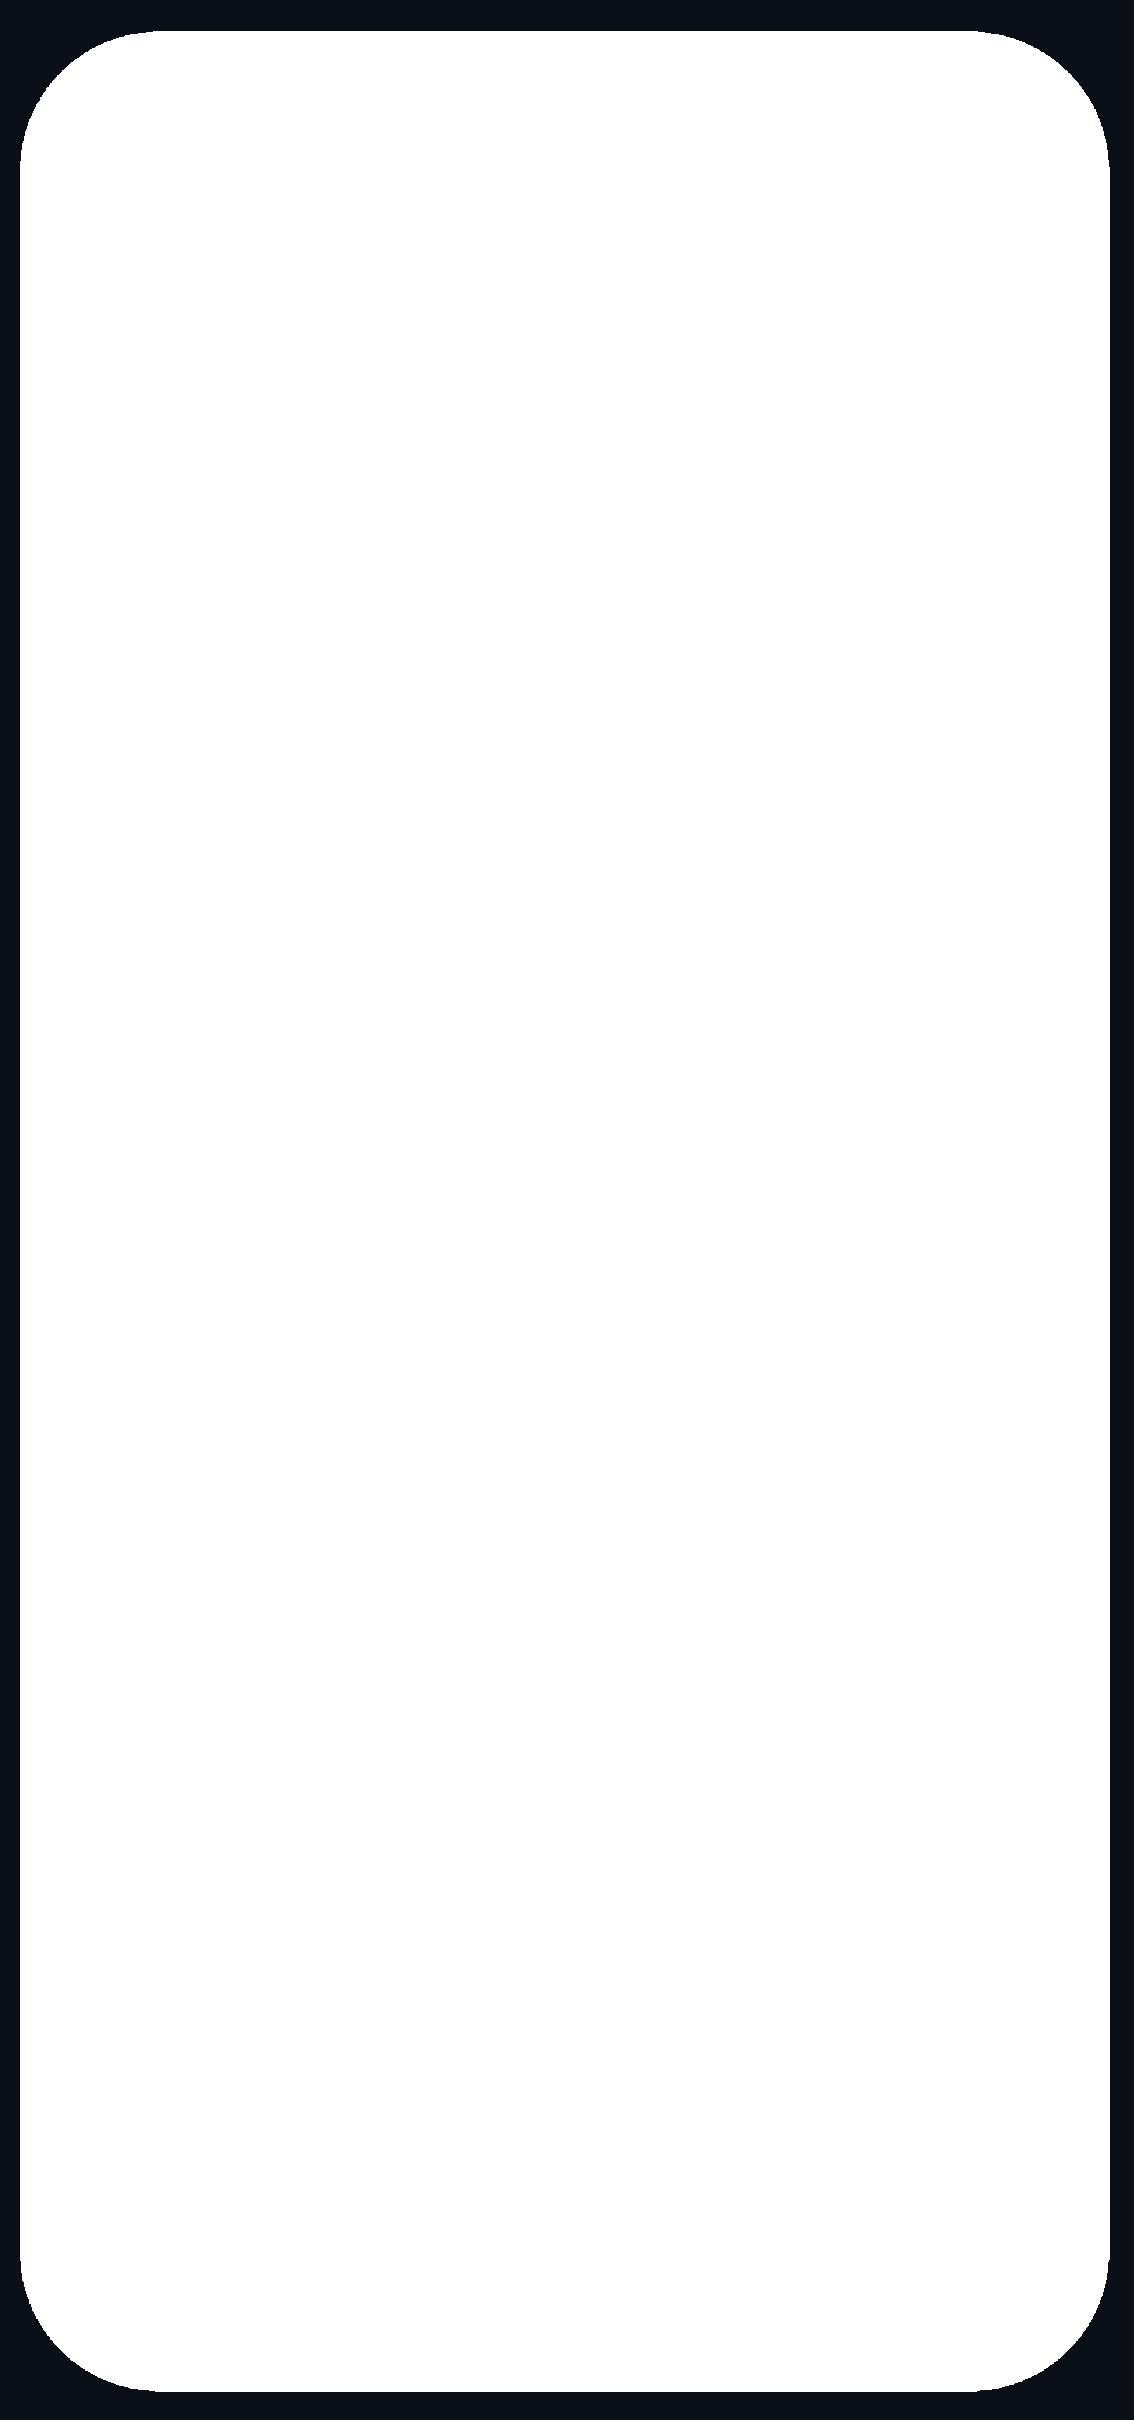
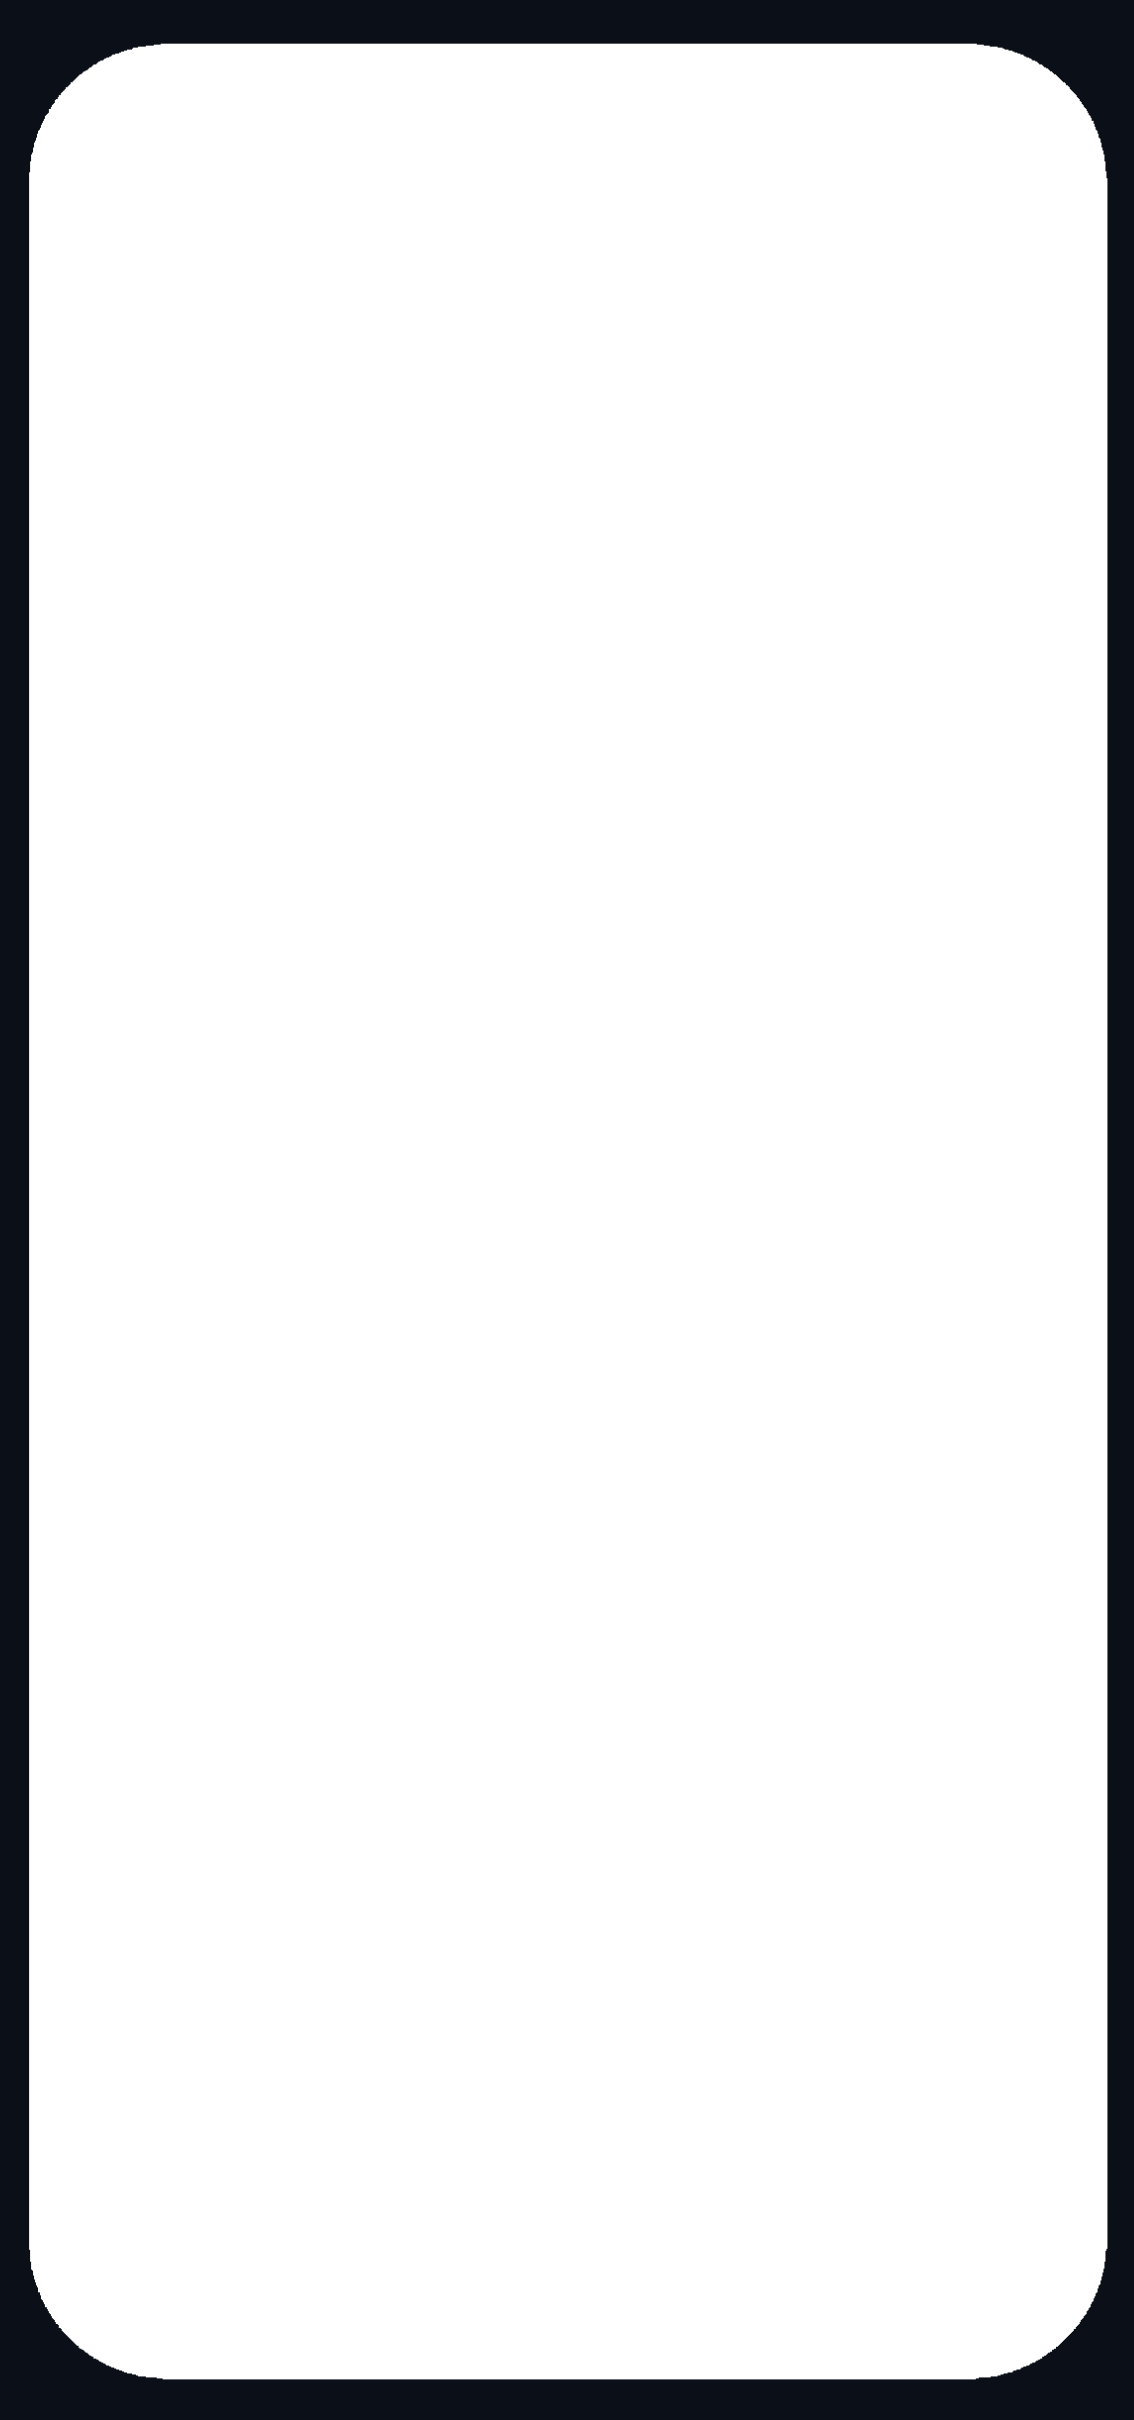
mask for mvp

diff --git a/styles.css b/styles.css
@@ -327,13 +327,14 @@ input:focus {
 .video-frame {
   position: relative;
   width: 100%;
-  max-width: 520px; /* controls how big the video appears */
+  max-width: 420px; /* controls how big the video appears */
   margin-left: auto; /* pushes it toward the right */
-  border-radius: 22px;
-  border: 1px solid rgba(255, 255, 255, 0.14);
-  background: rgba(255, 255, 255, 0.06);
-  padding: 14px;
-  box-shadow: 0 18px 60px rgba(0, 0, 0, 0.45);
+  border-radius: 0;
+  border: 0;
+  background: transparent;
+  padding: 0;
+  box-shadow: none;
+  overflow: hidden;
 }
 
 /* The actual video (white UI background looks intentional) */
@@ -341,19 +342,22 @@ input:focus {
   width: 100%;
   height: auto;
   display: block;
-  border-radius: 18px;
-  background: #ffffff;
-  border: 1px solid rgba(0, 0, 0, 0.10);
+  border-radius: 0;
+  background: transparent;
+  border: 0;
+  position: relative;
+  z-index: 1;
 }
 
 /* PNG mask overlay */
 .video-frame .video-mask {
   position: absolute;
-  inset: 14px; /* matches padding above; keeps mask aligned */
-  width: calc(100% - 28px);
-  height: calc(100% - 28px);
+  inset: 0;
+  width: 100%;
+  height: 100%;
   object-fit: cover;      /* use contain if your mask has margins */
   pointer-events: none;   /* so video controls still clickable */
+  z-index: 2;
 }
 
 /* Responsive: stack on mobile */

diff --git a/index.html b/index.html
@@ -151,7 +151,7 @@
 
             <div class="video-wrap">
                 <div class="video-frame">
-                <video class="video" controls preload="metadata">
+                <video class="video" id="demoVideo" controls preload="auto">
                     <source src="assets/mvp.mp4" type="video/mp4" />
                     Your browser does not support the video tag.
                 </video>
@@ -225,7 +225,7 @@
               <button class="btn" type="submit">Get early access</button>
 
               <p class="fineprint" id="formHint">
-                This page is hosted on GitHub Pages. To store submissions, connect a free form endpoint (see comment in HTML).
+                This is a demo page, emails do not get stored.
               </p>
 
               <p class="fineprint success" id="successMsg" hidden>
@@ -247,7 +247,7 @@
         </div>
 
         <div class="footer-right">
-          <div class="footer-note">Contact: <a href="mailto:locker.nfc.payments@gmail.com">locker.nfc.payments@gmail.com</a></div>
+          <div class="footer-note">Contact: <a href="mailto:locker.nfc.payments@gmail.com">support@locker.com</a></div>
         </div>
       </div>
     </footer>

diff --git a/script.js b/script.js
@@ -36,4 +36,23 @@
     }
     // If action points to a real endpoint (Formspree), the browser submits normally.
   });
+
+  const demoVideo = document.getElementById("demoVideo");
+  if (demoVideo) {
+    const seekToFirstFrame = () => {
+      try {
+        demoVideo.currentTime = 0.01;
+        demoVideo.pause();
+      } catch (_) {
+        // ignore seek errors (e.g., not enough data yet)
+      }
+    };
+
+    if (demoVideo.readyState >= 2) {
+      seekToFirstFrame();
+    } else {
+      demoVideo.addEventListener("loadedmetadata", seekToFirstFrame, { once: true });
+      demoVideo.addEventListener("loadeddata", seekToFirstFrame, { once: true });
+    }
+  }
 })();
